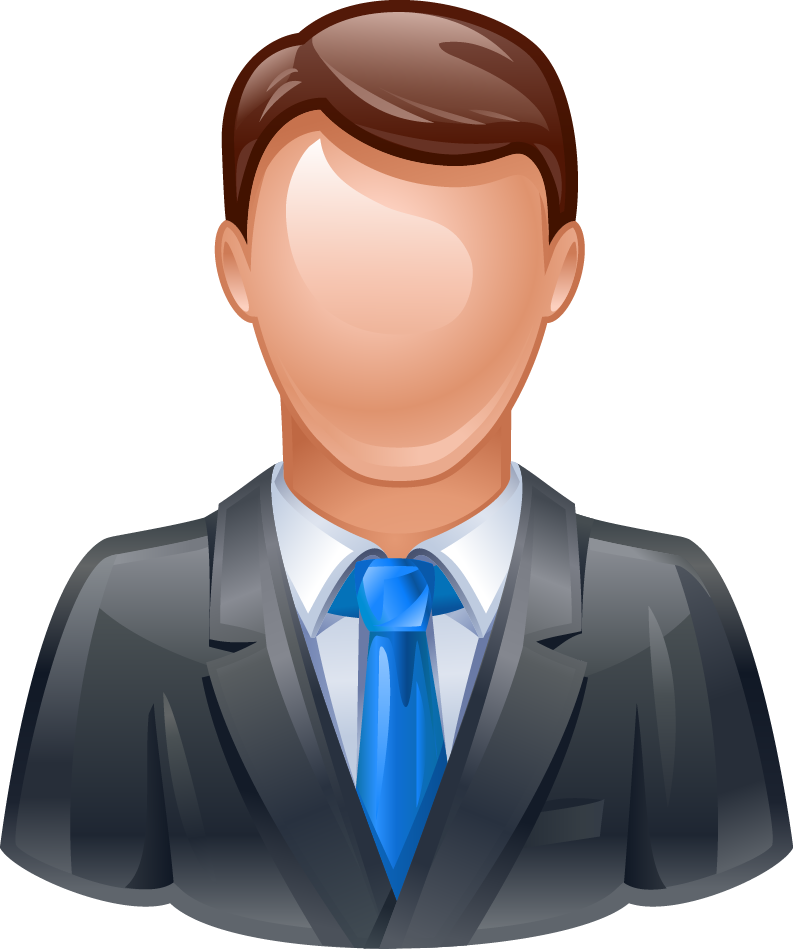
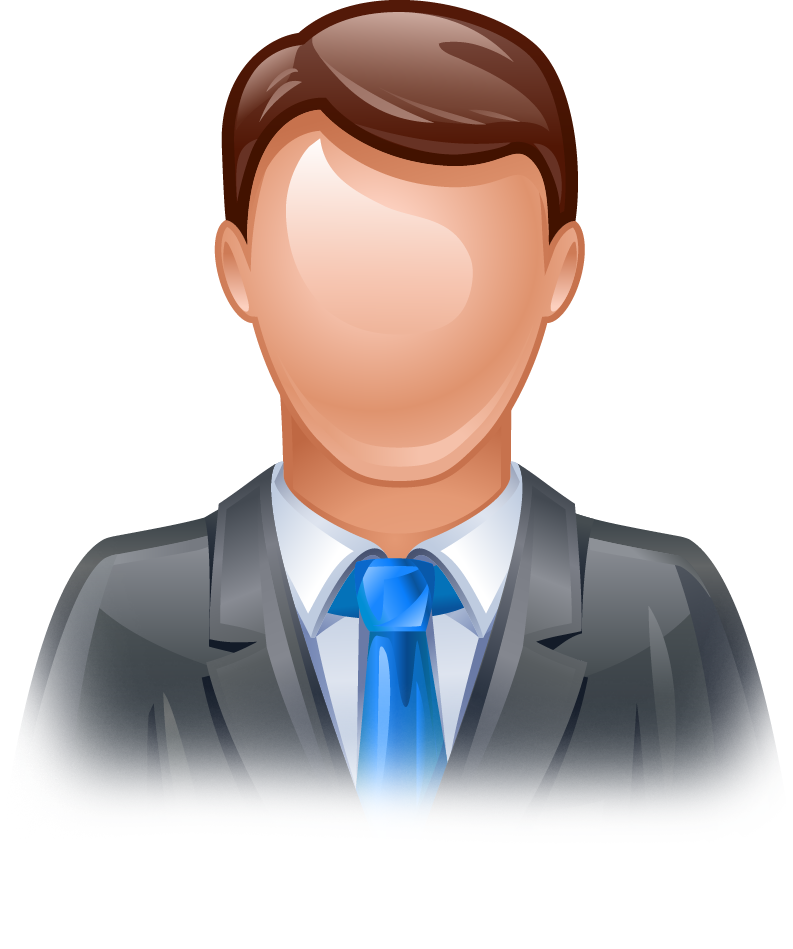
Form refactoring

Changed region(s): [[0.0, 0.6112, 1.0, 1.0]]

diff --git a/src/app/pages/ceram-page/ceram-page.component.html b/src/app/pages/ceram-page/ceram-page.component.html
@@ -1,21 +1,58 @@
 <div class="wrapper">
   <div class="ceram">
-    <img class="ceram__o1" src="assets/images/oval.png" alt="Oval">
-    <img class="ceram__o2" src="assets/images/no_face.png" alt="Oval">
-    <img class="ceram__o3" src="assets/images/cloud.png" alt="Oval">
-    <div class="textwrap">
-      <span class="ceram__lastname">{{myForm.get('lastName')?.value}}</span>
+    <img class="ceram__frame" src="assets/images/{{ viewFormat }}.png" alt="Frame">
+    <img *ngIf="viewHole" class="ceram__holeV" src="assets/images/holeV.png" alt="Hole">
+    <img *ngIf="!viewHole" class="ceram__holeH" src="assets/images/holeH.png" alt="Hole">
+    <img class="ceram__person" src="assets/images/no_face.png" alt="Photo Person">
+    <img class="ceram__background" src="assets/images/cloud.png" alt="Background">
+    <div class="textOnCeram">
+      <span class="textOnCeram__lastname">{{myForm.get('lastName')?.value}}</span>
 <!--      <span class="ceram__lastname">{{ceramNew.firstName}}</span>-->
-      <span class="ceram__name" [class]="textClass">{{myForm.get('firstName')?.value}} {{myForm.get('patronymic')?.value}}</span>
-      <span class="ceram__date">{{'1988'}} - {{'2018'}}</span>
+      <span class="textOnCeram__name" [class]="textClass">{{myForm.get('firstName')?.value}} {{myForm.get('patronymic')?.value}}</span>
+      <span class="textOnCeram__date">{{myForm.get('birthday')?.value | date:'dd.MM.YYYY'}} - {{myForm.get('death')?.value | date:'dd.MM.YYYY'}}</span>
     </div>
-
   </div>
 
   <form class="ceram-form" [formGroup]="myForm" (ngSubmit)="submit()">
 
     <div class="form-control">
-      <label>Фамилия<br /></label>
+      <label>Выберите форму</label>
+      <div class="form-control__radio">
+        <input id="radioFormat1" type="radio" formControlName="radioFormat" (ngModelChange)="changeFormat()" [value]="1" />
+        <label for="radioFormat1">Овал</label>
+        <pre>    </pre>
+        <input id="radioFormat2" type="radio" formControlName="radioFormat" (ngModelChange)="changeFormat()" [value]="2" />
+        <label for="radioFormat2">Прямоугольник</label>
+      </div>
+      <div class="validation"></div>
+    </div>
+
+    <div class="form-control">
+      <label>Выберите размер</label>
+      <div class="form-control__radio">
+        <input id="radioSize1" type="radio" formControlName="radioSize" [value]="1" />
+        <label for="radioSize1">13x18</label>
+        <pre>   </pre>
+        <input id="radioSize2" type="radio" formControlName="radioSize" [value]="2" />
+        <label for="radioSize2">18x24</label>
+      </div>
+      <div class="validation"></div>
+    </div>
+
+    <div class="form-control">
+      <label>Расположение отверстий</label>
+      <div class="form-control__radio">
+        <input id="radioHole1" type="radio" formControlName="radioHole" (ngModelChange)="changeHole()" [value]="1" />
+        <label for="radioHole1">Верх/низ</label>
+        <pre>    </pre>
+        <input id="radioHole2" type="radio" formControlName="radioHole" (ngModelChange)="changeHole()" [value]="2" />
+        <label for="radioHole2">По бокам</label>
+      </div>
+      <div class="validation"></div>
+    </div>
+
+    <div class="form-control">
+      <label>Фамилия</label>
       <input name="lastName" type="text" formControlName="lastName" placeholder="Фамилия..." autofocus="true" />
       <div *ngIf="myForm.get('lastName')?.invalid && myForm.get('lastName')?.touched" class="validation">
         <small *ngIf="myForm.get('lastName')?.errors?.required">Поле не может быть пустым</small>
@@ -24,18 +61,30 @@
     </div>
 
     <div class="form-control">
-      <label>Имя<br /></label>
-      <input name="firstName" type="text" formControlName="firstName" (ngModelChange)="changeInput($event)" placeholder="Имя..." />
+      <label>Имя</label>
+      <input name="firstName" type="text" formControlName="firstName" (ngModelChange)="changeName()" placeholder="Имя..." />
       <div class="validation"></div>
     </div>
 
     <div class="form-control">
-      <label>Отчество<br /></label>
-      <input name="patronymic" type="text" formControlName="patronymic" placeholder="Отчество..." />
+      <label>Отчество</label>
+      <input name="patronymic" type="text" formControlName="patronymic" (ngModelChange)="changeName()" placeholder="Отчество..." />
       <div class="validation"></div>
     </div>
 
     <div class="form-control">
+      <label>День рождения</label>
+      <input name="birthday" type="date" formControlName="birthday" />
+      <div class="validation"></div>
+    </div>
+
+    <div class="form-control">
+      <label>День смерти</label>
+      <input name="death" type="date" formControlName="death" />
+      <div class="validation"></div>
+    </div>
+
+    <div class="form-button">
       <button type="submit" [disabled]="myForm.invalid">Отправить</button>
     </div>
   </form>

diff --git a/src/app/pages/ceram-page/ceram-page.component.ts b/src/app/pages/ceram-page/ceram-page.component.ts
@@ -1,15 +1,6 @@
 import { Component, OnInit } from '@angular/core';
 import {FormControl, FormGroup, UntypedFormGroup, Validators} from "@angular/forms";
 
-export interface Ceram {
-  id: number
-  firstName: string
-  lastName: string
-  patronymic: string
-  birthday: number
-  death: number
-}
-
 @Component({
   selector: 'app-ceram-page',
   templateUrl: './ceram-page.component.html',
@@ -27,43 +18,47 @@ export class CeramPageComponent implements OnInit {
   // }
 
   myForm: FormGroup
-  formData: FormGroup
-  textWidth: boolean = false
+  viewFormat: string = 'oval'
+  viewHole: boolean = true
   textClass: string = 'ceram__name'
 
   constructor() {
+
   }
 
-  changeInput($event: Event){
+  changeFormat(){
+    this.myForm.get('radioFormat')?.value == 1 ? this.viewFormat = 'oval' : this.viewFormat = 'rectangle'
+  }
+
+  changeHole(){
+    this.myForm.get('radioHole')?.value == 1 ? this.viewHole = true : this.viewHole = false
+  }
+
+  changeName(){
     let count: string = this.myForm.get('firstName')?.value + this.myForm.get('patronymic')?.value
 
     // count.length > 15 ? this.textClass = 'ceram__name--mod1' : this.textClass = "ceram__name"
-
     if (count.length > 15) {
-      this.textClass = 'ceram__name--mod1'
-      if (count.length > 21)  this.textClass = 'ceram__name--mod2'
+      this.textClass = 'textOnCeram__name--mod1'
+      if (count.length > 21)  this.textClass = 'textOnCeram__name--mod2'
     }
-    else this.textClass = 'ceram__name'
-
-
-    // const target = $event.target as HTMLInputElement
-    // const name = target.name
-
-    this.formData = {...this.myForm.value}
-
-    console.log(count.length)
-
+    else this.textClass = 'textOnCeram__name'
   }
 
   ngOnInit(): void {
     this.myForm = new FormGroup({
+      radioFormat: new FormControl(1),
+      radioSize: new FormControl(1),
+      radioHole: new FormControl(1),
       lastName: new FormControl('Рогов', [Validators.required, Validators.minLength(4)]),
-      firstName: new FormControl('Иван'),
-      patronymic: new FormControl('Иванович')
+      firstName: new FormControl('Анатолий'),
+      patronymic: new FormControl('Ильич'),
+      birthday: new FormControl(''),
+      death: new FormControl('')
     })
     this.myForm.valueChanges.subscribe((status) => {
     //console.log(status)
-  })
+    })
   }
 
   submit() {

diff --git a/src/app/pages/ceram-page/ceram-page.component.scss b/src/app/pages/ceram-page/ceram-page.component.scss
@@ -4,6 +4,7 @@
 }
 
 .ceram-form{
+  border: 1px solid black;
   display: flex;
   flex-direction: column;
   gap: 16px;
@@ -26,19 +27,31 @@
   }
 }
 
-.textwrap{
+.form-control{
   display: flex;
   flex-direction: column;
-  width: 270px;
+  width: 260px;
+  &__radio{
+    display: flex;
+    gap: 4px;
+    align-items: center;
+    border: 1px solid green;
+  }
+}
+
+.textOnCeram{
+  display: flex;
+  flex-direction: column;
   position: absolute;
+  z-index: 7;
   top: 370px;
   left: 50px;
-  z-index: 7;
+  width: 270px;
   font-family: 'arial',  sans-serif;
   text-align: center;
   text-transform: capitalize;
   font-size: 28px;
-  .ceram__name{
+  &__name{
     &--mod1{
       letter-spacing: -1px;
       font-stretch: condensed;
@@ -50,6 +63,11 @@
       font-size: 24px;
     }
   }
+  &__date{
+    font-size: 24px;
+    letter-spacing: -1px;
+    font-stretch: ultra-condensed;
+  }
 
 }
 
@@ -59,23 +77,33 @@
   left: 500px;
   min-height: 600px;
 
-  &__o1{
+  &__frame{
     position: absolute;
     z-index: 2;
   }
 
-  &__o2{
+  &__holeV{
+    position: absolute;
+    z-index: 15;
+    left: 175px;
+  }
+
+  &__holeH{
+    position: absolute;
+    z-index: 15;
+    top: 240px;
+  }
+
+  &__person{
     position: absolute;
     height: 440px;
     top: 35px;
     left: 0px;
     z-index: 1;
   }
-  &__o3{
+  &__background{
     position: absolute;
-    height: 380px;
-    top: 0px;
-    left: 0px;
+    height: 510px;
     z-index: 0;
   }
   &__date{
